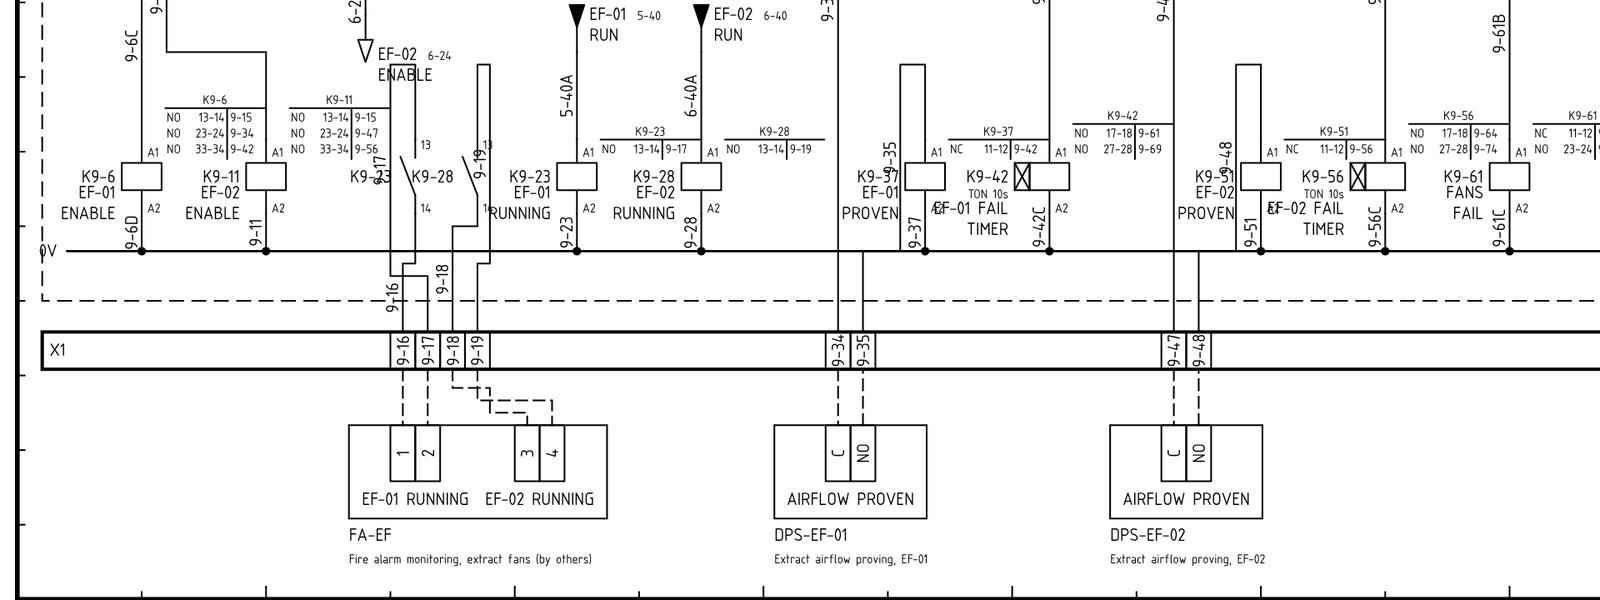
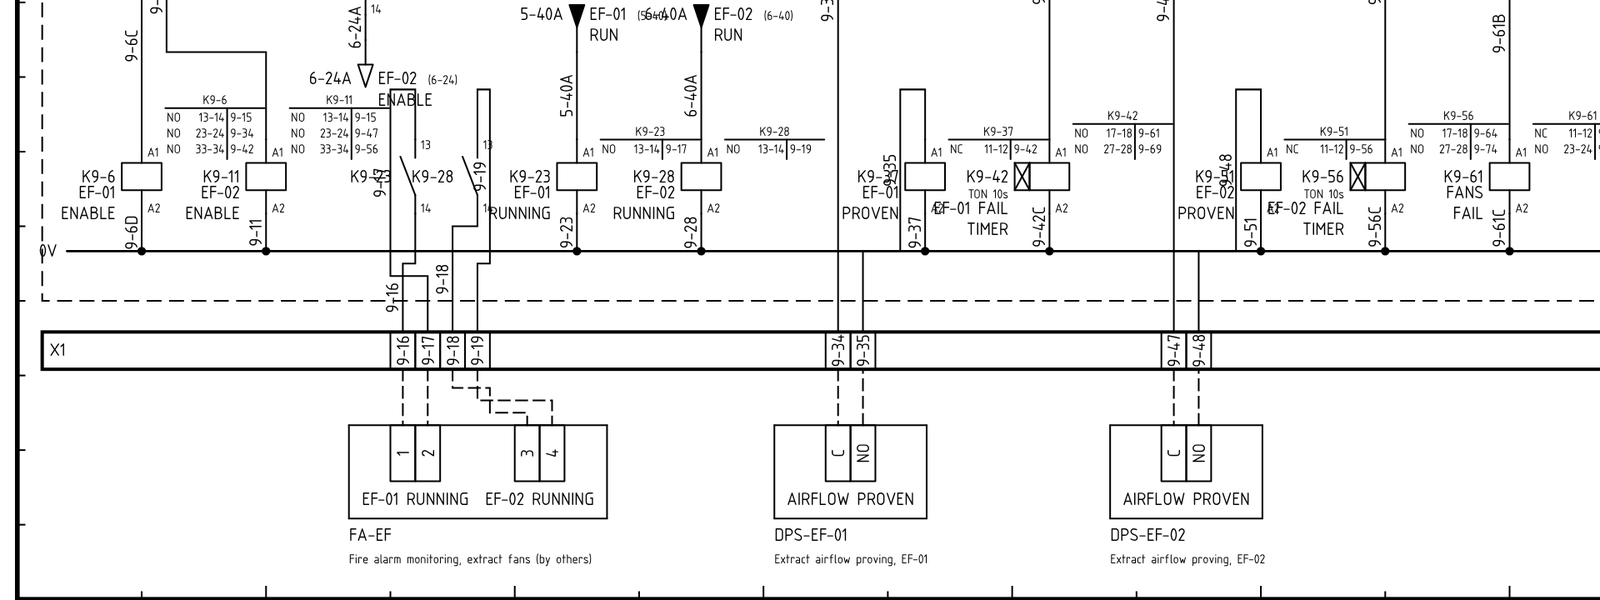
v0.3 step 5: link arrows show their wire number and a bracketed reference (#50)
- An arrow prints the number of the wire it carries, horizontal and in line
- The partner reference is in brackets, (4-24); brackets mean a place
- An arrow dropped on a pin with no wire is on that pin's conductor
- Example: arrows spaced so numbers and references don't collide

diff --git a/src/core/v03.test.ts b/src/core/v03.test.ts
@@ -214,3 +214,47 @@ describe("terminals drive wire numbers (v0.3 §2, 33)", () => {
     expect(free.number).not.toBe(onT.number);
   });
 });
+
+describe("link arrows: wire number and bracketed reference (v0.3 §2)", () => {
+  test("an arrow shows the wire number it carries and its partner in brackets", async () => {
+    const { addPage, linkOffpage } = await import("./ops");
+    const { p, pg } = project();
+    const k = addElement(p, pg, "coil", [20, 20]);
+    const out = addElement(p, pg, "offpage", [20, 40]);
+    connect(p, pg, [k.id, "A2"], [out.id, "1"]);
+    const pg2 = addPage(p, "two");
+    const inn = addElement(p, pg2.id, "offpage", [30, 20], { rot: 180 });
+    const h = addElement(p, pg2.id, "lamp", [30, 40]);
+    connect(p, pg2.id, [inn.id, "1"], [h.id, "+V"]);
+    linkOffpage(p, out.id, inn.id);
+    renumber(p);
+    const t = elementTexts(out, p);
+    const n = p.conductors.find((c) => c.terminals.some(([id]) => id === out.id))!.number;
+    expect(n).not.toBe("");
+    expect(t.wire).toBe(n);
+    expect(elementTexts(inn, p).wire).toBe(n);
+    expect(t.xref).toMatch(/^\(2-\d+\)$/);
+    // Drawn horizontal, at the tag size.
+    const prim = localGeometry(out, t).prims.find((x) => x.t === "text" && x.text === n);
+    expect(prim && prim.t === "text" && !prim.vertical).toBe(true);
+    // A typed reference is bracketed too, never twice.
+    const lone = addElement(p, pg, "offpage", [60, 40], { params: { ref: "(8-34)" } });
+    expect(elementTexts(lone, p).xref).toBe("(8-34)");
+  });
+
+  test("an arrow dropped straight onto a pin is on that pin's conductor and shows its number (32)", async () => {
+    const { terminalPoint } = await import("./symbols");
+    const { p, pg } = project();
+    const k = addElement(p, pg, "coil", [20, 20]);
+    const k2 = addElement(p, pg, "coil", [40, 20]);
+    connect(p, pg, [k.id, "A2"], [k2.id, "A2"]);
+    // The arrow's terminal (2 up from its origin) right on the coil's A2.
+    const a2 = terminalPoint(k, "A2")!;
+    const arrow = addElement(p, pg, "offpage", [a2[0], a2[1] + 2]);
+    expect(terminalPoint(arrow, "1")).toEqual(a2);
+    renumber(p);
+    const c = p.conductors.find((x) => x.terminals.some(([id]) => id === k.id))!;
+    expect(c.terminals.some(([id]) => id === arrow.id)).toBe(true);
+    expect(elementTexts(arrow, p).wire).toBe(c.number);
+  });
+});

diff --git a/src/bench/lsp01.ts b/src/bench/lsp01.ts
@@ -287,20 +287,21 @@ export function buildLsp01(avoid: Avoid | null): Lsp01 {
   w([frLamp, "14"], [hFire, "+V"]);
   w([hFire, "-V"], tap(ov, 86));
   linkContact(p, frLamp.id, fr.id);
-  const sLt = add("pushbutton", 98, 51, { label: "LAMP TEST" });
-  const lt = ctl(null, 98, 57, 6, "LT");
-  w(tap(cct, 98), [sLt, "13"]);
-  w([sLt, "14"], tap(lt, 98));
+  const sLt = add("pushbutton", 96, 51, { label: "LAMP TEST" });
+  const lt = ctl(null, 96, 57, 6, "LT");
+  w(tap(cct, 96), [sLt, "13"]);
+  w([sLt, "14"], tap(lt, 96));
   // Lamp test: the LT rail feeds each lamp's test terminal.
-  w(tap(lt, 98), [hFire, "LT"]);
+  w(tap(lt, 96), [hFire, "LT"]);
   w([hFire, "LT"], [hHealthy, "LT"]);
   // CCT and 0V out to the four starters and the two controls sheets.
-  const cctOuts = [108, 114, 120, 126, 132, 138].map((x) => {
+  // Eight units apart: each arrow has its wire number to the left and its reference to the right.
+  const cctOuts = [102, 110, 118, 126, 134, 142].map((x) => {
     const a = arrowOut(x, 51);
     w(tap(cct, x), [a, "1"]);
     return a;
   });
-  const ovOuts = [111, 117, 123, 129, 135, 141].map((x) => {
+  const ovOuts = [102, 110, 118, 126, 134, 142].map((x) => {
     const a = arrowIn(x, 61);
     w([a, "1"], tap(ov, x));
     return a;
@@ -345,7 +346,7 @@ export function buildLsp01(avoid: Avoid | null): Lsp01 {
     linkContact(p, k.id, er.id);
   };
   enLoop(11, er1, tag(SF1.id));
-  enLoop(31, er2, tag(SF2.id));
+  enLoop(33, er2, tag(SF2.id));
   // Running relays, from each starter's run signal.
   const runRelay = (x: number, fanTag: string) => {
     const a = arrowIn(x, 44, `${fanTag}\nRUN`);
@@ -453,7 +454,7 @@ export function buildLsp01(avoid: Avoid | null): Lsp01 {
   // Enable loops and run signals between each starter and its controls sheet.
   starters.forEach((s, i) => {
     const sh = i < 2 ? controlsSheet : efSheet;
-    const y = i % 2 === 0 ? 11 : 31;
+    const y = i % 2 === 0 ? 11 : 33;
     linkOffpage(p, at(s.page, "offpage", 46, 33).id, at(sh, "offpage", 28, y).id);
     linkOffpage(p, at(sh, "offpage", 28, y + 14).id, at(s.page, "offpage", 46, 40).id);
     linkOffpage(p, at(s.page, "offpage", 78, 45).id, at(sh, "offpage", i % 2 === 0 ? 45 : 55, 44).id);

diff --git a/src/core/symbols.ts b/src/core/symbols.ts
@@ -1319,6 +1319,16 @@ const SYMBOLS: SymbolDef[] = [
       const placed = (at: Vec, s: string, size: number, anchor: Anchor, role: TextRole): Prim => ({ t: "text", at, text: s, size, anchor, role, placed: true });
       const texts: Prim[] = [];
       const rot = el.rot;
+      // The wire number it carries, horizontal and in line with the arrow (v0.3 §2): on a
+      // vertical arrow, left of the head on the label's line (number, arrow, label); on a
+      // horizontal one, beyond its free end.
+      const wire = t?.wire ?? "";
+      if (wire) {
+        if (rot === 0) texts.push(placed([-w - 0.5, h - 0.2], wire, TAG, "end", "note"));
+        else if (rot === 180) texts.push(placed([-w - 0.5, -h + 0.2 + cap], wire, TAG, "end", "note"));
+        else if (rot === 270) texts.push(placed([h + 0.5, cap / 2], wire, TAG, "start", "note"));
+        else texts.push(placed([-h - 0.5, cap / 2], wire, TAG, "end", "note"));
+      }
       if (rot === 0 || rot === 180) {
         const y = rot === 0 ? h - 0.2 : -h + 0.2 + cap;
         if (label) texts.push(placed([1, y], "{label}", TAG, "start", "label"));
@@ -2301,6 +2311,8 @@ export interface GeometryText {
   xref?: string;
   /** Label with any fields filled in. Defaults to the element's label. */
   label?: string;
+  /** A link arrow: the number of the wire it carries (v0.3 §2). */
+  wire?: string;
   /** A busbar's name: its distribution's, or its own when it's local. */
   name?: string;
   /** A contact timed by its timer coil: the coil's function (on, off, on-off…), so the delay mark is drawn. */

diff --git a/src/core/conductors.ts b/src/core/conductors.ts
@@ -14,7 +14,7 @@
  * shares with its old self), so numbers don't jump about while drawing.
  */
 import { type Conductor, type Project, type TerminalRef, newId } from "./model";
-import { isBar, requireSymbol } from "./symbols";
+import { isBar, requireSymbol, terminalPoint } from "./symbols";
 
 const key = (r: TerminalRef) => `${r[0]}\u0000${r[1]}`;
 const unkey = (k: string): TerminalRef => k.split("\u0000") as TerminalRef;
@@ -82,6 +82,25 @@ export function refreshConductors(project: Project): void {
         const present = group.filter((n) => names.has(n));
         for (let i = 1; i < present.length; i++) uf.union(key([elId, present[0]!]), key([elId, present[i]!]));
       }
+    }
+  }
+
+  // An arrow dropped straight onto a part's pin, with no wire between, is on that pin's conductor (v0.3 §2, 32).
+  for (const page of project.pages) {
+    const arrows = page.elements.filter((e) => e.symbol === "offpage");
+    if (!arrows.length) continue;
+    const at = new Map<string, TerminalRef[]>();
+    for (const el of page.elements) {
+      if (el.symbol === "offpage") continue;
+      for (const t of requireSymbol(el.symbol).draw(el).terminals) {
+        const pt = terminalPoint(el, t.name);
+        if (pt) at.set(`${pt[0]},${pt[1]}`, [...(at.get(`${pt[0]},${pt[1]}`) ?? []), [el.id, t.name]]);
+      }
+    }
+    for (const a of arrows) {
+      const pt = terminalPoint(a, "1");
+      const pins = pt ? at.get(`${pt[0]},${pt[1]}`) : undefined;
+      for (const pin of pins ?? []) uf.union(key([a.id, "1"]), key(pin));
     }
   }
 

diff --git a/src/core/xref.ts b/src/core/xref.ts
@@ -167,9 +167,10 @@ export function linkedTarget(project: Project, el: Element): string | null {
 export function xrefText(project: Project, el: Element, masterTag: string): string {
   const here = locate(project, el.id)?.page;
   if (el.symbol === "offpage") {
+    // In brackets: brackets always mean a place, a bare number a wire (v0.3 §2).
     const p = partnerOf(project, el);
-    if (p) return address(p.page, p.el.pos, here);
-    return typeof el.params.ref === "string" ? el.params.ref : "";
+    const ref = p ? address(p.page, p.el.pos, here) : typeof el.params.ref === "string" ? el.params.ref.trim().replace(/^\((.*)\)$/, "$1") : "";
+    return ref ? `(${ref})` : "";
   }
   const m = masterOf(project, el);
   if (m) {

diff --git a/src/core/renumber.test.ts b/src/core/renumber.test.ts
@@ -122,8 +122,8 @@ describe("cross-references", () => {
     connect(p, pg2, [inn.id, "1"], [h.id, "+V"]);
     linkOffpage(p, out.id, inn.id);
     renumber(p);
-    expect(elementTexts(out, p).xref).toBe("2-11");
-    expect(elementTexts(inn, p).xref).toBe("1-26");
+    expect(elementTexts(out, p).xref).toBe("(2-11)");
+    expect(elementTexts(inn, p).xref).toBe("(1-26)");
     const num = (id: string, t: string) => p.conductors.find((c) => c.terminals.some(([e, n]) => e === id && n === t))!.number;
     expect(num(h.id, "+V")).toBe(num(s1.id, "14"));
   });

diff --git a/src/core/tags.ts b/src/core/tags.ts
@@ -58,6 +58,8 @@ export function elementTexts(el: Element, project: Project): GeometryText {
         if (src?.label) t.label = resolveFields(src.label, project);
       }
       if (d && !t.label) t.label = d.name;
+      const c = project.conductors.find((x) => x.terminals.some(([id]) => id === el.id));
+      if (c?.number) t.wire = c.number;
     }
   }
   return t;

diff --git a/src/core/review2.test.ts b/src/core/review2.test.ts
@@ -53,7 +53,7 @@ describe("link arrows", () => {
     const a = addElement(p, pg, "offpage", [10, 10]);
     const b = addElement(p, pg, "offpage", [50, 10]);
     linkOffpage(p, a.id, b.id);
-    expect(xrefText(p, a, "")).toBe("1-26");
+    expect(xrefText(p, a, "")).toBe("(1-26)");
   });
 
 });

diff --git a/README.md b/README.md
@@ -143,7 +143,7 @@ Everything else (Plant, Check, Schedules, Settings…) opens in a **window**: dr
 - **Numbering:** tags show as `K?`, `S?`… until you press **Renumber**. Position scheme (default): tags, terminals and wire numbers are the sheet-column where they are, e.g. `K3-16`, wire `3-22`; the highest in a column keeps the plain number and the rest get A, B, C. **A wire on a terminal takes the terminal's number**, so the two always agree (if it reaches several, the first along the strip, by sheet then left to right); any other wire is numbered from its highest end. **Check** warns about a locked wire number that disagrees with its terminal. Numbering stops at busbars: each wire leaving one gets its own number. Sequential (K1, K2…, wire 100, 101…) can be chosen under Project…. Tick *Tag fixed* on a part, or lock a wire number, to keep it.
 - **Numbering:** **Renumber** first shows a table of what would change (old → new for tags, plant, terminals and wire numbers); nothing changes until you *Apply*.
 - **Links:** select a contact and pick its coil under *Driven by coil* (listed by tag and description): it takes the coil's tag and pole number (13/14, 23/24, 31/32…), and the coil gets a contact table to its right showing where each contact is (drag the table to move it; click a row to jump to that contact). **Double-click** a contact to jump to its coil, a coil to its first contact, or a link arrow to its partner (in Simulate too); where you land is ringed until you select something else. References are always in full (`11-06`), on the same sheet too; a contact table has its coil's tag above it.
-- **Link arrows** pair up under *Continues at*, or with *Link…* (below). Tick *Source* on the one the wire comes from; its partner becomes the destination (filled). The wire keeps its number across sheets. The label sits at the arrow's tip with the reference after it.
+- **Link arrows** pair up under *Continues at*, or with *Link…* (below). Tick *Source* on the one the wire comes from; its partner becomes the destination (filled). The wire keeps its number across sheets. An arrow shows the **wire number** it carries, always horizontal and in line with it (left of a vertical arrow; beyond the free end of a horizontal one), and its **partner's reference in brackets**, `(4-24)`, after the label at its tip. Brackets always mean a place, a bare number always a wire, so the two can't be confused. An arrow dropped straight onto a part's pin is on that pin's wire and shows its number.
 - **Distribution blocks, control rails and distributions:** a **Distribution block** is the physical busbar or block (drawn heavy, tagged W, placed on the GA and counted in the bill of materials); a **Control rail** is the common rail of a control drawing (CCT, 0V: drawn in the control weight, no tag, not a GA part). Under **Distribution** in the top bar, list the supplies the project distributes (L1, N, CCT, 0V…, with kind, voltage, colour (picked from the core colours, as on a wire) and function (free text, with suggestions); new projects start with none). A block, a rail, a link arrow or an incoming supply terminal picks one from the list, and everything on the same distribution is joined on every sheet, so CCT can simply be drawn again on the next sheet. A block or rail on no distribution is *local* and joins nothing else. Its name sits at its left end, beside its tag, and can be printed at both ends.
 - **Wires:** a wire's colour, function and number print at the end it was drawn from; the number once per sheet, on the longest run, and not on earth or field wires unless you tick *Show number*. A new wire takes its colour from the busbar it leaves, or from the wire on the other side of the fuse, contact or terminal it's drawn from; change it any time. Wires from a cable screen are dashed. A **cable screen** has no tag; its drain wire attaches at either end.
 - **Labels** are one line; a part's *Label width* (always in its properties) wraps a longer one onto more lines. Lamps always have a colour (white for a clear lens). **Call-outs** are numbered 1, 2, 3… on their sheet in the order they were placed while *Auto* is ticked (the default); untick it to set a number by hand. While placing a part, `R` turns and `F` flips it. Plant views are all at least as tall as a 5-character pin name, so they line up. A terminal strip line is drawn over the terminals it crosses. **Colour check** (next to Split in Draft) draws every wire and busbar in its core colour, with a dark edge so white shows, and grey dashes where no colour is set: a quick way to see the colours are right. Print and PDF stay black.

diff --git a/docs/DESIGN.md b/docs/DESIGN.md
@@ -330,6 +330,7 @@ Reference drawings from other companies are proprietary. They are never committe
 | Busbars split, v0.3 step 2 (2026-11-23) | Two parts again, now for different things: the **distribution block** (`busbar`, the physical busbar or block, IEC class W: heavy, tagged, a GA part, in the bill of materials) and the **control rail** (`rail`, a drawing convention for CCT and 0V: control weight, no tag, not a GA part). Their `style` param is gone; files' `style: control` busbars become rails. Both join everything on their distribution, stop numbering, give their colour to wires drawn from them, feed simulation and show live; `isBar()` (`symbols.ts`) is the test for either. Only distribution blocks are offered in *Place parts…* |
 | Terminals, v0.3 step 3 (2026-11-23) | **A column each:** terminal block cells are 2 units wide (`CELL_HALF_W`), and terminals in the block at least 2 apart (`CELL_PITCH`): a terminal dropped closer moves to the nearest free place (`freeCellX`), and files' terminals 1 unit apart spread along the block keeping their order (`spreadBlock`, also after setting a boundary or stamping a template). No two terminals share a column, so there are no `A` suffixes in the block. Plant and module view pins are 2 apart too (`PLANT.pitch`); views get wider. **Text:** terminal numbers, pin numbers and wire numbers are the `tag` style (2.5 mm); pin ids, contact tables, cross-references and a wire's colour and function stay 1.8 mm. Plant boxes fit a 5-character name at 2.5 mm. **Earth terminals** in the block print no number (their tag is kept for schedules and the GA); the sign is centred in the cell. **GA strips** list terminals by sheet, then left to right (`syncGaStrips` no longer keeps an old order; `gaCandidates` goes across each sheet) |
 | Wire numbers from terminals, v0.3 step 4 (2026-11-23) | One rule: a conductor that reaches a terminal is numbered by it (`numberingTerminal`: the first it reaches by sheet, then left to right, then top to bottom); any other is numbered from its highest end, as before, stepping aside (A, B…) for numbers terminals have taken. No option to change the source (33). Locked numbers stay as typed; **Check** warns when one disagrees with its terminal, and when one number ends up on two wires (terminals of two strips in the same column). Under the sequential scheme it's the same rule: the wire takes the terminal's sequence number |
+| Link arrows, v0.3 step 5 (2026-11-23) | An arrow prints the **number of the wire it carries** (`GeometryText.wire`, from its conductor) at 2.5 mm, always horizontal: on a vertical arrow left of the head, on the label's line (number, arrow, label); on a horizontal arrow beyond its free end. The **partner reference** is in brackets, `(4-24)` (`xrefText`; a typed reference gets them too, never twice), as Ferrule writes every place. An arrow whose terminal sits on another part's pin with no wire is joined to that pin's conductor (`refreshConductors`), so it numbers, simulates and checks as connected. Arrows have no tag (17). The example's CCT/0V arrows are 8 units apart and its second enable loop moved down to make room |
 
 ## 16. Open questions
 

diff --git a/docs/design-v0.3.md b/docs/design-v0.3.md
@@ -188,6 +188,13 @@ Each step is one PR with a build, `ferrule-windows-v0.3.0-pre.zip`. The working 
 - **Two strips in one column** (X1 and X2 terminals at the same place) give the same number to two wires, since each wire must agree with its terminal. Check warns, and moving one terminal along fixes it.
 - **Sequential scheme:** the same rule; a wire on a terminal takes the terminal's sequence number.
 
+**Step 5 (link arrows)**
+
+- **Where the number goes:** on a vertical arrow (the usual case) it's left of the head, on the same line as the label and reference: `3-24 ▼ SF-01 (3-24)`. Below the tip it ran into a two-line label. On a horizontal arrow it's beyond the free end, in line with the wire. Source and destination are placed the same way; the arrow's shape already says which is which.
+- **Size:** the number is 2.5 mm like every wire number; the bracketed reference stays at the cross-reference size (1.8 mm).
+- **Dropped on a pin:** an arrow whose terminal sits exactly on another part's pin, with no wire, is joined to that pin's conductor, so it is genuinely on it (numbering, Simulate and Check agree), not just labelled.
+- **The example:** its CCT and 0V arrows on sheet 7 are 8 units apart (the lamp test moved 2 left to make room), and the second enable loop on sheets 8 and 9 moved down 2 units, so numbers and references don't run into each other.
+
 ## 11. Director notes, as written (23/11/26)
 
 **On tiling (§7):**
